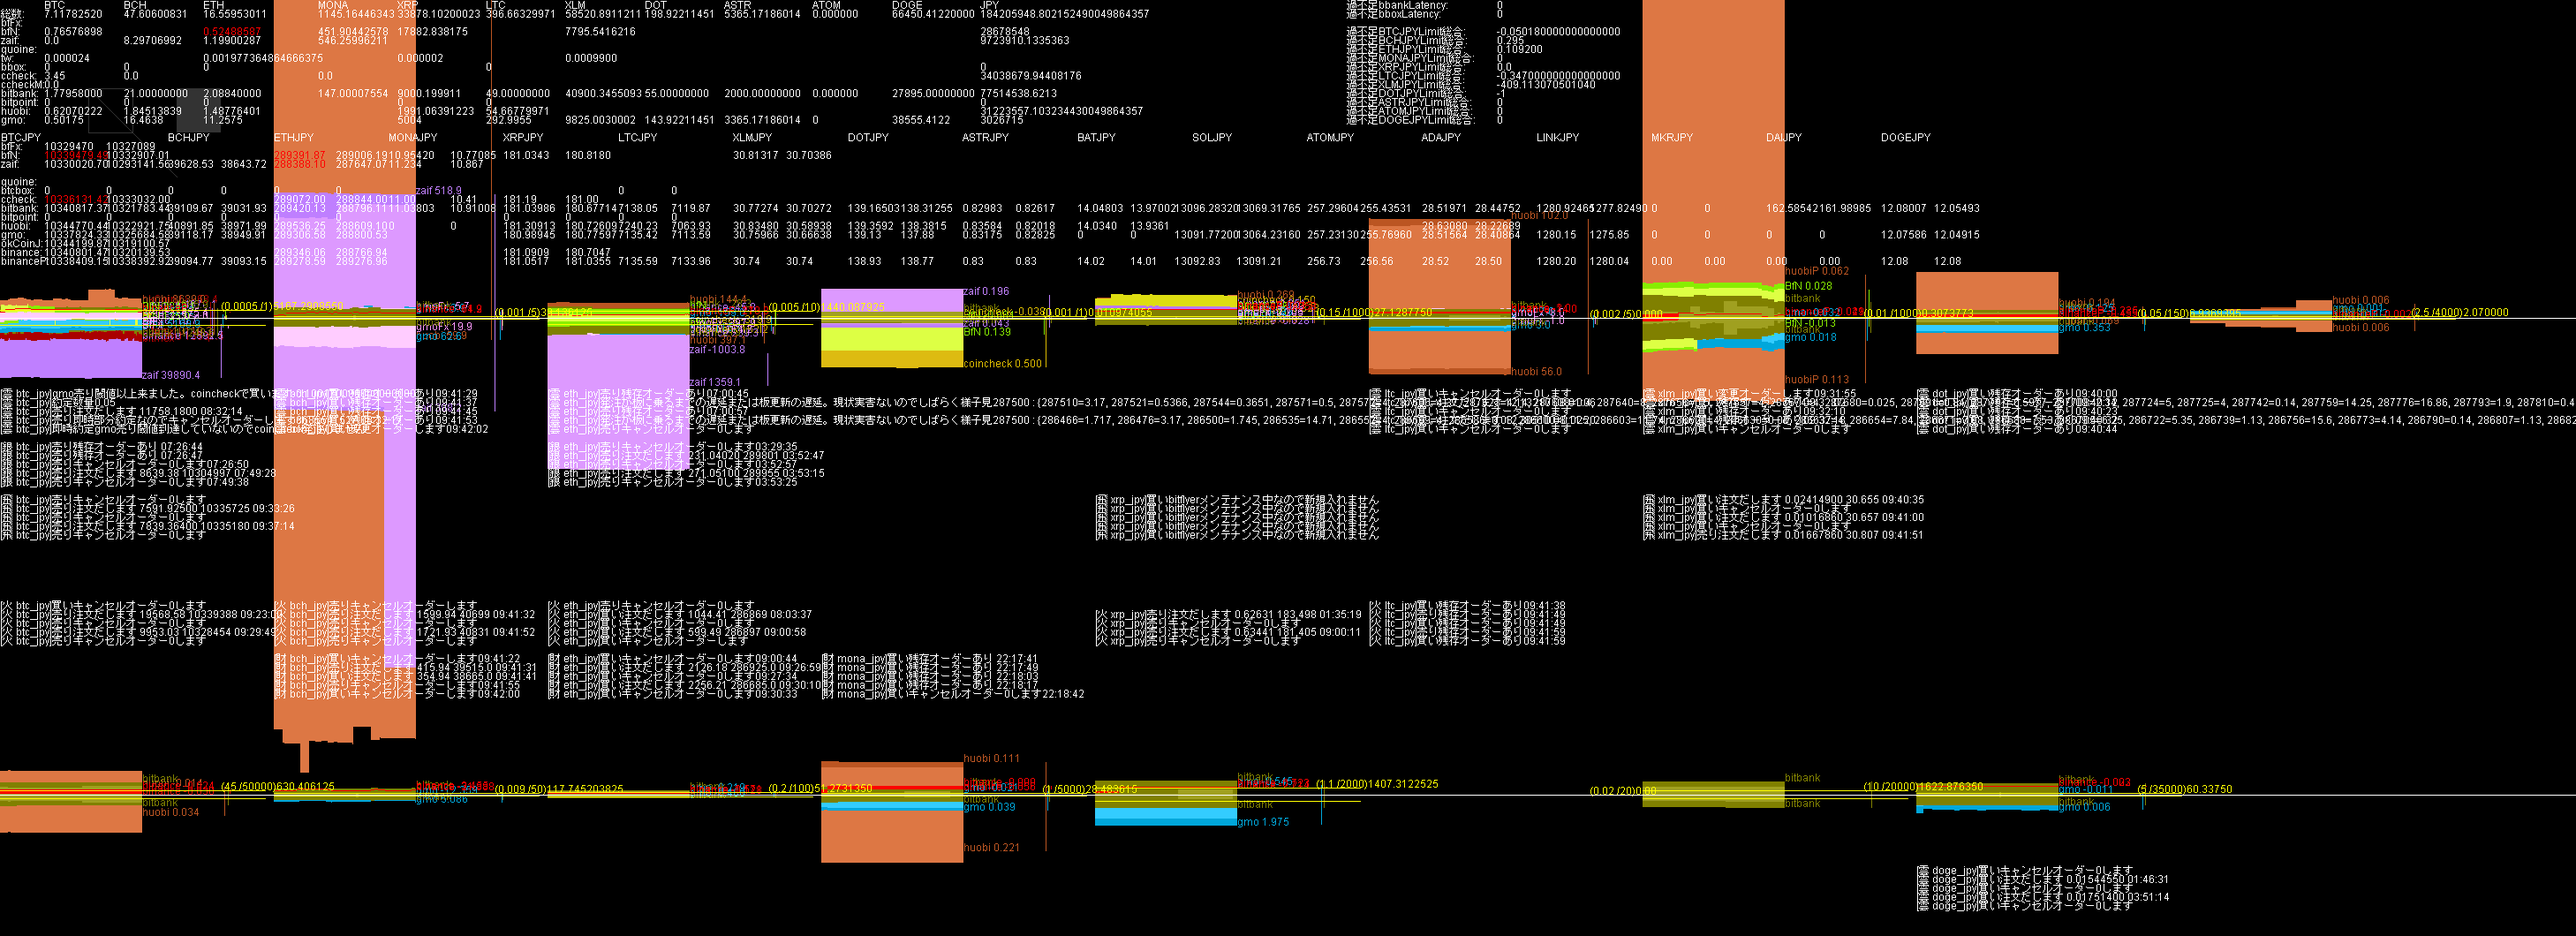
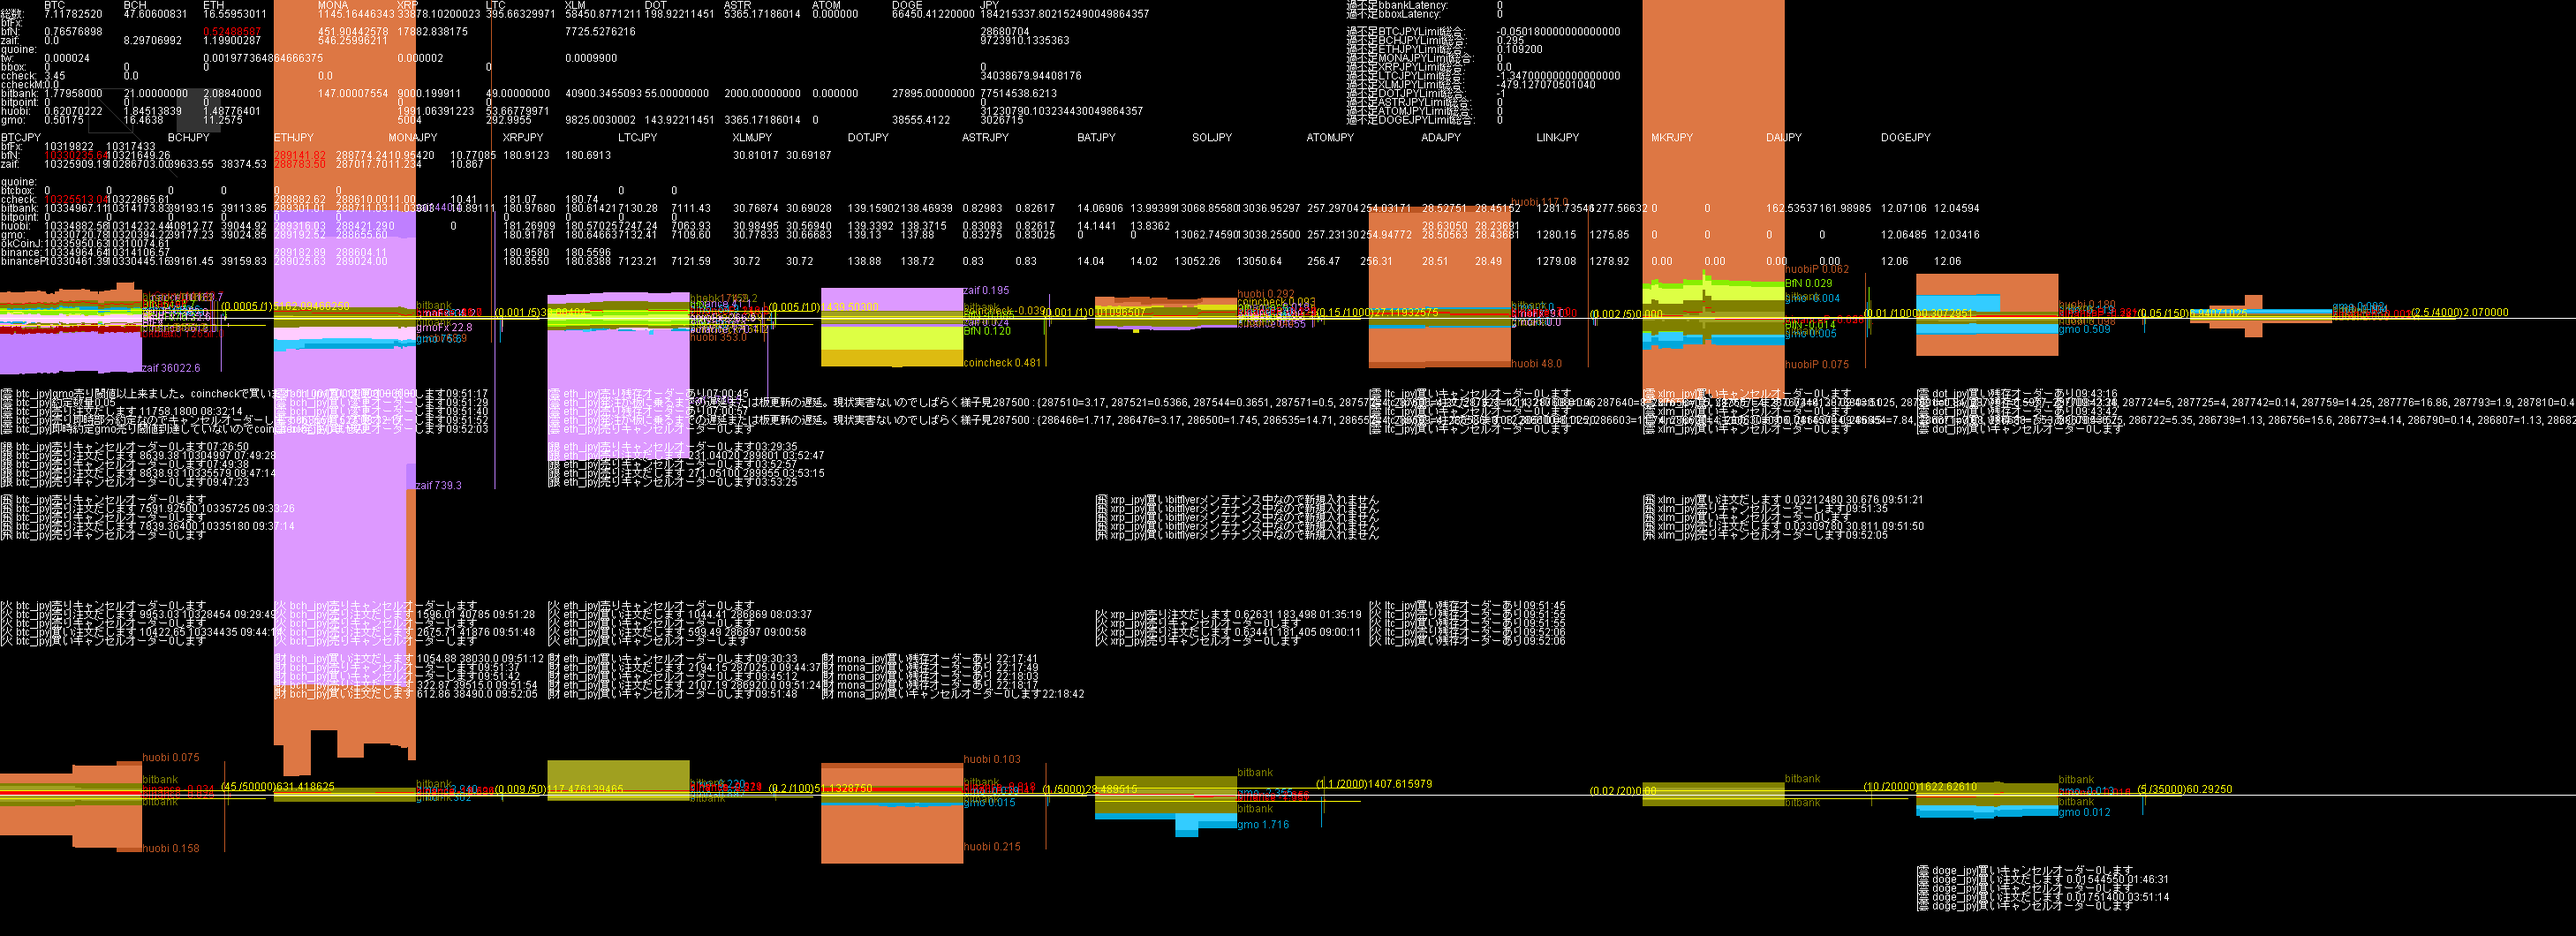
Update HTML file via Java

diff --git a/ca.html b/ca.html
@@ -16,6 +16,9 @@ th { background-color: #222; text-align: center; }
     <tr><th>ddhhmm</th><th>bfJPY</th><th>財JPY</th><th>ccJPY</th><th>銀JPY</th><th>火JPY</th><th>雲JPY</th><th>bfBTC</th><th>財BTC</th><th>ccBTC</th><th>銀BTC</th><th>火BTC</th><th>雲BTC</th><th>bfBCH</th><th>財BCH</th><th>ccBCH</th><th>銀BCH</th><th>火BCH</th><th>雲BCH</th><th>bfETH</th><th>財ETH</th><th>ccETH</th><th>銀ETH</th><th>火ETH</th><th>雲ETH</th><th>bfMONA</th><th>財MONA</th><th>ccMONA</th><th>銀MONA</th><th>火MONA</th><th>雲MONA</th><th>bfXRP</th><th>財XRP</th><th>ccXRP</th><th>銀XRP</th><th>火XRP</th><th>雲XRP</th><th>bfLTC</th><th>財LTC</th><th>ccLTC</th><th>銀LTC</th><th>火LTC</th><th>雲LTC</th><th>bfXLM</th><th>財XLM</th><th>ccXLM</th><th>銀XLM</th><th>火XLM</th><th>雲XLM</th><th>bfDOT</th><th>財DOT</th><th>ccDOT</th><th>銀DOT</th><th>火DOT</th><th>雲DOT</th><th>bfASTR</th><th>財ASTR</th><th>ccASTR</th><th>銀ASTR</th><th>火ASTR</th><th>雲ASTR</th><th>bfDOGE</th><th>財DOGE</th><th>ccDOGE</th><th>銀DOGE</th><th>火DOGE</th><th>雲DOGE</th>    </tr>  </thead>
   <tbody>
     <tr>
+<td>080952</td><td>02868</td><td>00972</td><td>03403</td><td>07751</td><td>03123</td><td>00302</td><td>00.77</td><td>00.00</td><td>03.45</td><td>01.78</td><td>00.62</td><td>00.50</td><td>00.00</td><td>08.30</td><td>00.00</td><td>21.00</td><td>01.85</td><td>16.46</td><td><span style="color: #ff69b4">00.52</span></td><td>01.20</td><td>00.00</td><td>02.09</td><td>01.49</td><td>11.26</td><td>0451.9</td><td>0546.3</td><td>0000.0</td><td>0147.0</td><td>0000.0</td><td>0000.0</td><td>17883</td><td>00000</td><td>00000</td><td>09000</td><td>01991</td><td>05004</td><td>00.00</td><td>00.00</td><td>00.00</td><td>49.00</td><td>53.67</td><td>293.00</td><td>00.00</td><td>00.00</td><td>00.00</td><td>40900.35</td><td>00.00</td><td>9825.00</td><td>00.00</td><td>00.00</td><td>00.00</td><td>55.00</td><td>00.00</td><td>143.92</td><td>00.00</td><td>00.00</td><td>00.00</td><td>2000.00</td><td>00.00</td><td>3365.17</td><td>00.00</td><td>00.00</td><td>00.00</td><td>27895.00</td><td>00.00</td><td>38555.41</td>
+    </tr>
+    <tr>
 <td>080942</td><td>02867</td><td>00972</td><td>03403</td><td>07751</td><td>03122</td><td>00302</td><td>00.77</td><td>00.00</td><td>03.45</td><td>01.78</td><td>00.62</td><td>00.50</td><td>00.00</td><td>08.30</td><td>00.00</td><td>21.00</td><td>01.85</td><td>16.46</td><td><span style="color: #ff69b4">00.52</span></td><td>01.20</td><td>00.00</td><td>02.09</td><td>01.49</td><td>11.26</td><td>0451.9</td><td>0546.3</td><td>0000.0</td><td>0147.0</td><td>0000.0</td><td>0000.0</td><td>17883</td><td>00000</td><td>00000</td><td>09000</td><td>01991</td><td>05004</td><td>00.00</td><td>00.00</td><td>00.00</td><td>49.00</td><td>54.67</td><td>293.00</td><td>00.00</td><td>00.00</td><td>00.00</td><td>40900.35</td><td>00.00</td><td>9825.00</td><td>00.00</td><td>00.00</td><td>00.00</td><td>55.00</td><td>00.00</td><td>143.92</td><td>00.00</td><td>00.00</td><td>00.00</td><td>2000.00</td><td>00.00</td><td>3365.17</td><td>00.00</td><td>00.00</td><td>00.00</td><td>27895.00</td><td>00.00</td><td>38555.41</td>
     </tr>
     <tr>
